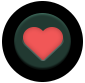
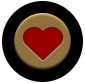
feat(game,header): 完成

diff --git a/src/styles/Z/03/header.scss b/src/styles/Z/03/header.scss
@@ -44,17 +44,17 @@ $header-menu-dropdown-link-color: white;
 
 $header-menu-dropdown-btn-width: 500px;
 $header-menu-dropdown-btn-height: 70px;
-$header-menu-dropdown-btn-bg: linear-gradient(to bottom, #397b67 0%, #023929 100%);
-$header-menu-dropdown-btn-color: white;
+$header-menu-dropdown-btn-bg: assetPath('header/ui-langBg.jpg');
+$header-menu-dropdown-btn-color: black;
 
 $header-menu-dropdown-lang-btn-icon-bg: assetPath('ui/ui-arrow-select.png') no-repeat;
 $header-menu-dropdown-lang-btn-icon-width: 35px;
 $header-menu-dropdown-lang-btn-icon-height: 23px;
 
 $header-menu-dropdown-lang-dropdown-position-top: $header-menu-dropdown-btn-height + 30;
-$header-menu-dropdown-lang-dropdown-btn-bg: #213931;
-$header-menu-dropdown-lang-dropdown-btn-color: white;
-$header-menu-dropdown-lang-dropdown-btn-border-bottom: 1px solid #1d5343;
+$header-menu-dropdown-lang-dropdown-btn-bg: black;
+$header-menu-dropdown-lang-dropdown-btn-color: #8b8b8b;
+$header-menu-dropdown-lang-dropdown-btn-border-bottom: 1px solid #505050;
 
 .header-menu {
   @include header-menu;
@@ -64,11 +64,11 @@ $header-sub-bg: black;
 
 $header-sub-button-height: 70px;
 
-$header-sub-button-bg-login: linear-gradient(to bottom, #397b67 0%, #023929 100%);
-$header-sub-button-color-login: white;
+$header-sub-button-bg-login: linear-gradient(to bottom, #ffe97c 0%, #af843c 100%);
+$header-sub-button-color-login: black;
 $header-sub-button-shadow-login: 0 2px 2px 0px rgba(0, 0, 0, 0.8);
 
-$header-sub-button-bg-register: linear-gradient(to bottom, #941719 0%, #4f0708 100%);
+$header-sub-button-bg-register: linear-gradient(to bottom, #ff5b55 0%, #d83b37 100%);
 $header-sub-button-color-register: white;
 $header-sub-button-shadow-register: 0 2px 2px 0px rgba(0, 0, 0, 0.8);
 
@@ -76,7 +76,7 @@ $header-sub-button-shadow-register: 0 2px 2px 0px rgba(0, 0, 0, 0.8);
 // $header-sub-status-icon-width: 52px;
 // $header-sub-status-icon-height: 52px;
 $header-sub-status--text-color-account: white;
-$header-sub-status--text-color-wallet: white;
+$header-sub-status--text-color-wallet: #f9bd06;
 
 $header-sub-icon-dropdown-bg: assetPath('ui/ui-arrow2-select.png');
 $header-sub-icon-dropdown-width: 19px;
@@ -84,13 +84,13 @@ $header-sub-icon-dropdown-height: 29px;
 
 $header-sub-dropdown-bg: rgba(0, 0, 0, 0.9);
 
-$header-sub-dropdown-button-refresh-bg: linear-gradient(to bottom, #941719 0%, #4f0708 100%);
+$header-sub-dropdown-button-refresh-bg: linear-gradient(to bottom, #ff5b55 0%, #d83b37 100%);
 $header-sub-dropdown-button-refresh-color: white;
-$header-sub-dropdown-button-refresh-shadow: none;
+$header-sub-dropdown-button-refresh-shadow: 0 2px 2px 0px rgba(0, 0, 0, 0.8);
 
-$header-sub-dropdown-button-transfer-all-bg: linear-gradient(to bottom, #397b67 0%, #023929 100%);
-$header-sub-dropdown-button-transfer-all-color: white;
-$header-sub-dropdown-button-transfer-all-shadow: none;
+$header-sub-dropdown-button-transfer-all-bg: linear-gradient(to bottom, #ffe97c 0%, #af843c 100%);
+$header-sub-dropdown-button-transfer-all-color: black;
+$header-sub-dropdown-button-transfer-all-shadow: 0 2px 2px 0px rgba(0, 0, 0, 0.8);
 
 .header-sub {
   @include header-sub;

diff --git a/src/styles/Z/03/game.scss b/src/styles/Z/03/game.scss
@@ -25,8 +25,8 @@ $game-lobby-jackpot-text-bg: white;
   @include game-lobby-jackpot;
 }
 
-$game-lobby-product-bg: #213931;
-$game-lobby-product-item-bg-active: #462b16;
+$game-lobby-product-bg: #1f1f1f;
+$game-lobby-product-item-bg-active: #1f1f1f;
 $game-lobby-product-icon-width: 90px;
 $game-lobby-product-icon-height: 50px;
 
@@ -34,7 +34,7 @@ $game-lobby-product-icon-height: 50px;
   @include game-lobby-product;
 }
 
-$game-lobby-category-bg: linear-gradient(to bottom, #013021, #011e15);
+$game-lobby-category-bg: linear-gradient(to bottom, #a9884f, #7e5612);
 $game-lobby-category-text-color: white;
 $game-lobby-category-text-color-active: #edebc0;
 
@@ -42,14 +42,14 @@ $game-lobby-category-text-color-active: #edebc0;
   @include game-lobby-category;
 }
 
-$game-lobby-search-bg: #213931;
+$game-lobby-search-bg: #1f1f1f;
 
 $game-lobby-search-input-width: 255px;
 $game-lobby-search-input-color: white;
-$game-lobby-search-input-bg: #13231e;
+$game-lobby-search-input-bg: #121212;
 $game-lobby-search-input-height: 53px;
 
-$game-lobby-search-icon-bg: assetPath('game-lobby/bg_lnk_inquire2.png') #13231e center no-repeat;
+$game-lobby-search-icon-bg: assetPath('game-lobby/bg_lnk_inquire2.png') #121212 center no-repeat;
 $game-lobby-search-icon-width: 53px;
 $game-lobby-search-icon-height: 53px;
 
@@ -61,12 +61,16 @@ $game-lobby-search-transfer-bg: assetPath('game-lobby/btnTrans.png') left center
   assetPath('game-lobby/bg_Trans.png') repeat-x;
 $game-lobby-search-transfer-icon-width: 59px;
 $game-lobby-search-transfer-icon-height: 59px;
-$game-lobby-search-transfer-color: white;
+$game-lobby-search-transfer-color: black;
 $game-lobby-search-transfer-width: auto;
 $game-lobby-search-transfer-height: 59px;
 
 .game-lobby-search {
   @include game-lobby-search;
+
+  input::placeholder {
+    color: #b89461;
+  }
 
   &__btn {
     &--transfer {
@@ -105,11 +109,11 @@ $game-lobby-list-icon-item-text-color: white;
 $game-transfer-dialog-bg: white;
 $game-transfer-dialog-border: 1px solid #c1ae71;
 
-$game-transfer-dialog-header-bg: #1c5745;
+$game-transfer-dialog-header-bg: #6c593a;
 $game-transfer-dialog-title-color: white;
-$game-transfer-dialog-label-color: black;
+$game-transfer-dialog-label-color: #c6a96d;
 $game-transfer-dialog-wallet-color: black;
-$game-transfer-dialog-amount-color: #0b664a;
+$game-transfer-dialog-amount-color: #8b8b8b;
 
 $game-transfer-dialog-switch-width: 271px;
 $game-transfer-dialog-switch-color: white;
@@ -119,10 +123,10 @@ $game-transfer-dialog-switch-left-on: assetPath('ui/lnk-trans-on.png') transpare
 $game-transfer-dialog-switch-right: assetPath('ui/lnk-trans2.png') transparent right no-repeat;
 $game-transfer-dialog-switch-right-on: assetPath('ui/lnk-trans2-on.png') transparent right no-repeat;
 
-$game-transfer-dialog-input-bg: #1b5341;
+$game-transfer-dialog-input-bg: #514126;
 $game-transfer-dialog-input-color: white;
 
-$game-transfer-dialog-btn-bg-submit: linear-gradient(to bottom, #397b67 0%, #023929 100%);
+$game-transfer-dialog-btn-bg-submit: #4b3120;
 $game-transfer-dialog-btn-color-submit: white;
 
 .game-transfer-dialog {

diff --git a/src/styles/Z/_default/game.scss b/src/styles/Z/_default/game.scss
@@ -309,7 +309,6 @@
 
     &__switch-div {
       margin-top: 20px;
-      white-space: nowrap;
     }
     &__switch {
       display: inline-block;
@@ -320,6 +319,7 @@
       color: $game-transfer-dialog-switch-color;
       border: 0;
       vertical-align: middle;
+      line-height: 2.5rem;
     }
     &__switch.on {
       color: $game-transfer-dialog-switch-color-active;
